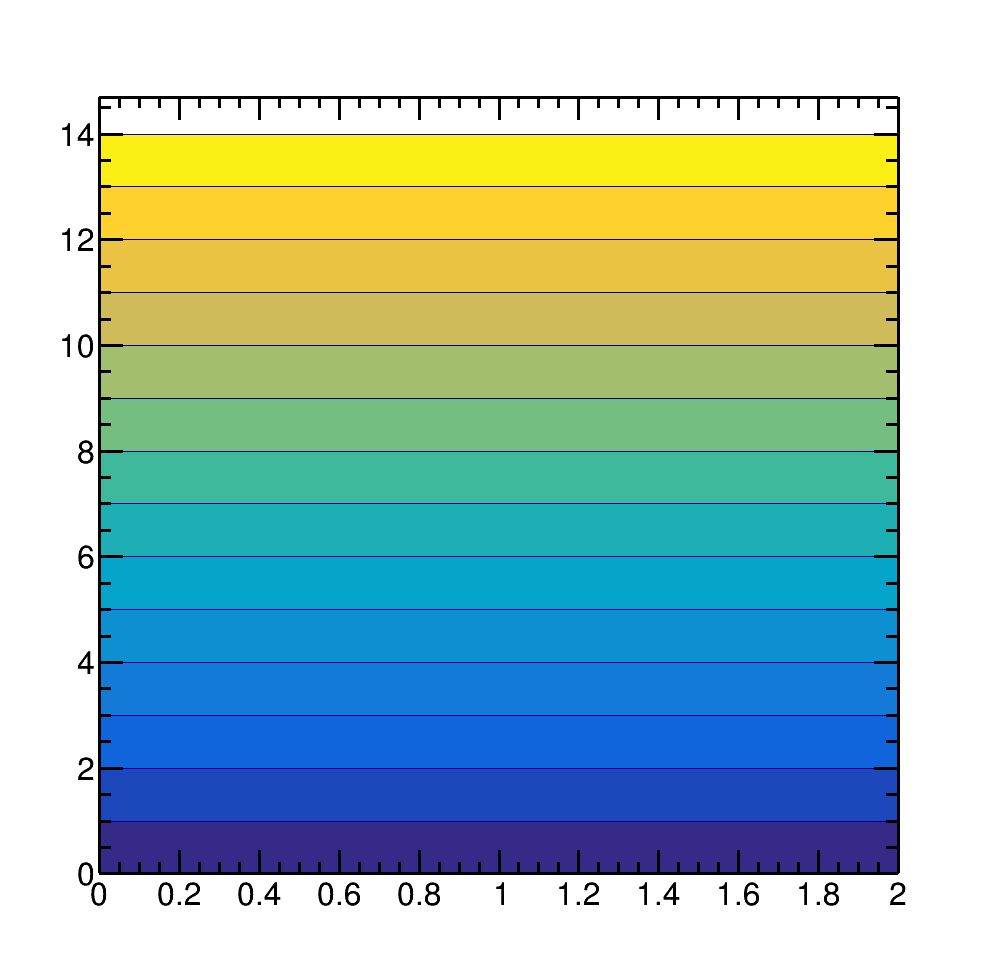
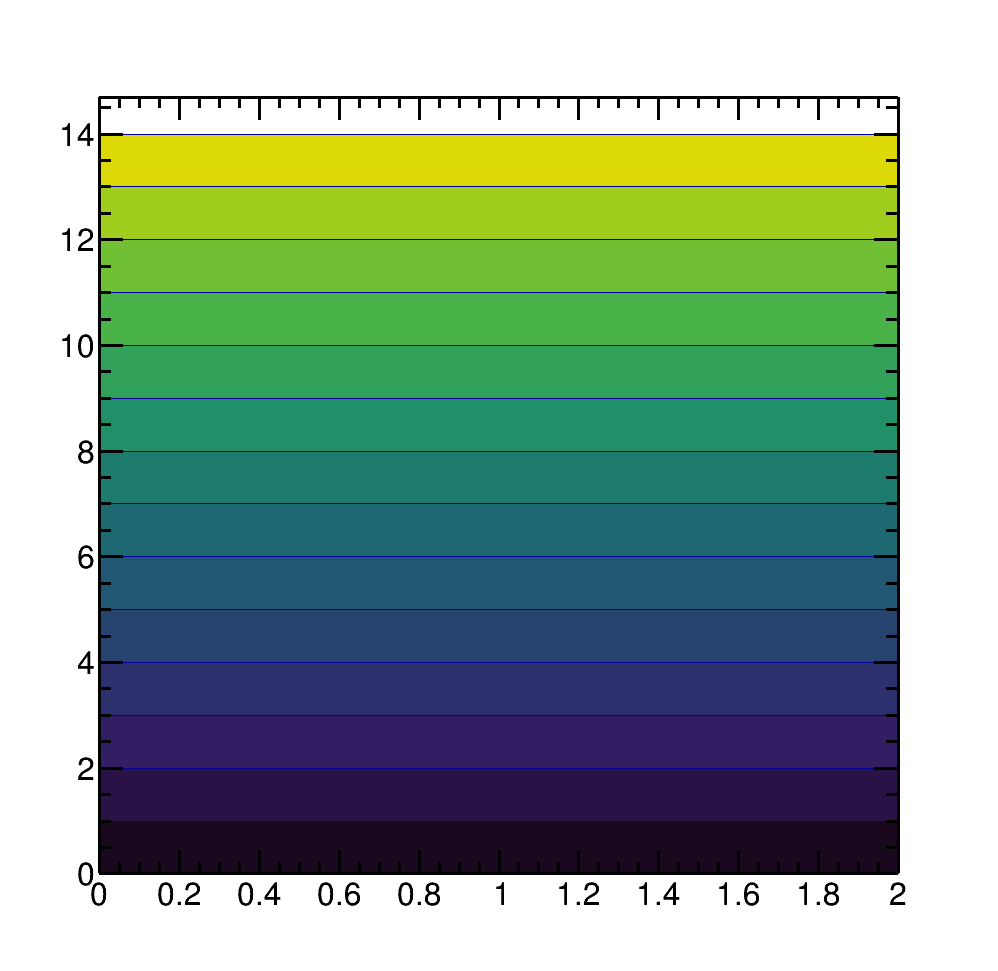
color schemes

diff --git a/downtimes.cc b/downtimes.cc
@@ -436,20 +436,82 @@ void downtimes(){
   wk38_totalloss 
  };
  int cols_hcal_totalbyweek[] = {
-  TColor::GetColor("#9e0142"), // red1
-  TColor::GetColor("#d53e4f"), // red2
-  TColor::GetColor("#f46d43"), // orange1
-  TColor::GetColor("#fdae61"), // orange2
-  TColor::GetColor("#fee08b"), // orange3
-  TColor::GetColor("#ffffbf"), // yellow1
-  TColor::GetColor("#e6f598"), // yellow2
-  TColor::GetColor("#abdda4"), // green1
-  TColor::GetColor("#66c2a5"), // green2
-  TColor::GetColor("#3288bd"), // blue
-  TColor::GetColor("#5e4fa2"), // purple1
-  TColor::GetColor("#2d004b"), // purple2
-  37,
-  38
+  //// kBird palette
+  //TColor::GetColor("#FED12C"),
+  //TColor::GetColor("#EBC343"),
+  //TColor::GetColor("#CFBB5A"),
+  //TColor::GetColor("#A3BE6C"),
+  //TColor::GetColor("#74BE81"),
+  //TColor::GetColor("#3EB99C"),
+  //TColor::GetColor("#1DAFB3"),
+  //TColor::GetColor("#1DAFB3"),
+  //TColor::GetColor("#05A4CA"),
+  //TColor::GetColor("#0E8FD1"),
+  //TColor::GetColor("#137AD8"),
+  //TColor::GetColor("#1064DC"),
+  //TColor::GetColor("#1D48BC"),
+  //TColor::GetColor("#352A87"),
+  //TColor::GetColor("#352A87"),
+  //// kCMYK palette
+  //TColor::GetColor("#34322C"),
+  //TColor::GetColor("#767563"),
+  //TColor::GetColor("#A39F70"),
+  //TColor::GetColor("#C7BE6F"),
+  //TColor::GetColor("#D7B768"),
+  //TColor::GetColor("#DFA866"),
+  //TColor::GetColor("#D88D6C"),
+  //TColor::GetColor("#C87078"),
+  //TColor::GetColor("#B55387"),
+  //TColor::GetColor("#9A5B9B"),
+  //TColor::GetColor("#8168AF"),
+  //TColor::GetColor("#6B82C4"),
+  //TColor::GetColor("#5490D0"),
+  //TColor::GetColor("#3D95D6"),
+  //// kDarkRainBow palette
+  //TColor::GetColor("#9D2A2B"),
+  //TColor::GetColor("#9B312C"),
+  //TColor::GetColor("#A55231"),
+  //TColor::GetColor("#B27B39"),
+  //TColor::GetColor("#AE9437"),
+  //TColor::GetColor("#A29E35"),
+  //TColor::GetColor("#868F30"),
+  //TColor::GetColor("#657B2D"),
+  //TColor::GetColor("#42652C"),
+  //TColor::GetColor("#385B34"),
+  //TColor::GetColor("#315142"),
+  //TColor::GetColor("#2D445B"),
+  //TColor::GetColor("#2B3F6D"),
+  //TColor::GetColor("#2B3F79"),
+  //// kPastel palette
+  //TColor::GetColor("#6AA8DB"),
+  //TColor::GetColor("#8FC0DC"),
+  //TColor::GetColor("#AFD6C3"),
+  //TColor::GetColor("#CEE9A1"),
+  //TColor::GetColor("#DCE48F"),
+  //TColor::GetColor("#DFD780"),
+  //TColor::GetColor("#D1BD75"),
+  //TColor::GetColor("#D4B27A"),
+  //TColor::GetColor("#DFAC85"),
+  //TColor::GetColor("#D79D95"),
+  //TColor::GetColor("#CE8FAB"),
+  //TColor::GetColor("#C282CE"),
+  //TColor::GetColor("#BA71E1"),
+  //TColor::GetColor("#B45DEC"),
+  //// kViridis palette
+  TColor::GetColor("#DDD908"),
+  TColor::GetColor("#A0CC1D"),
+  TColor::GetColor("#71BF33"),
+  TColor::GetColor("#49B349"),
+  TColor::GetColor("#31A15A"),
+  TColor::GetColor("#218F67"),
+  TColor::GetColor("#1D7C6E"),
+  TColor::GetColor("#1E6971"),
+  TColor::GetColor("#215772"),
+  TColor::GetColor("#274471"),
+  TColor::GetColor("#2C316D"),
+  TColor::GetColor("#311E63"),
+  TColor::GetColor("#291246"),
+  TColor::GetColor("#1A091E"),
  };
 
  int   nval_hcal_totalbyweek   = sizeof(vals_hcal_totalbyweek)/sizeof(vals_hcal_totalbyweek[0]);

diff --git a/makecolorpalette.cc b/makecolorpalette.cc
@@ -61,7 +61,11 @@ void makecolorpalette(){
  gPad->SetTickx();
  gPad->SetTicky();
  gStyle->SetLineWidth(3);
- gStyle->SetPalette(kBird);
+ gStyle->SetPalette(kViridis);
+ //gStyle->SetPalette(kPastel);
+ //gStyle->SetPalette(kCMYK);
+ //gStyle->SetPalette(kDarkRainBow);
+ //gStyle->SetPalette(kBird);
 
  // Draw histos
  hs ->Draw("HIST PFC");
